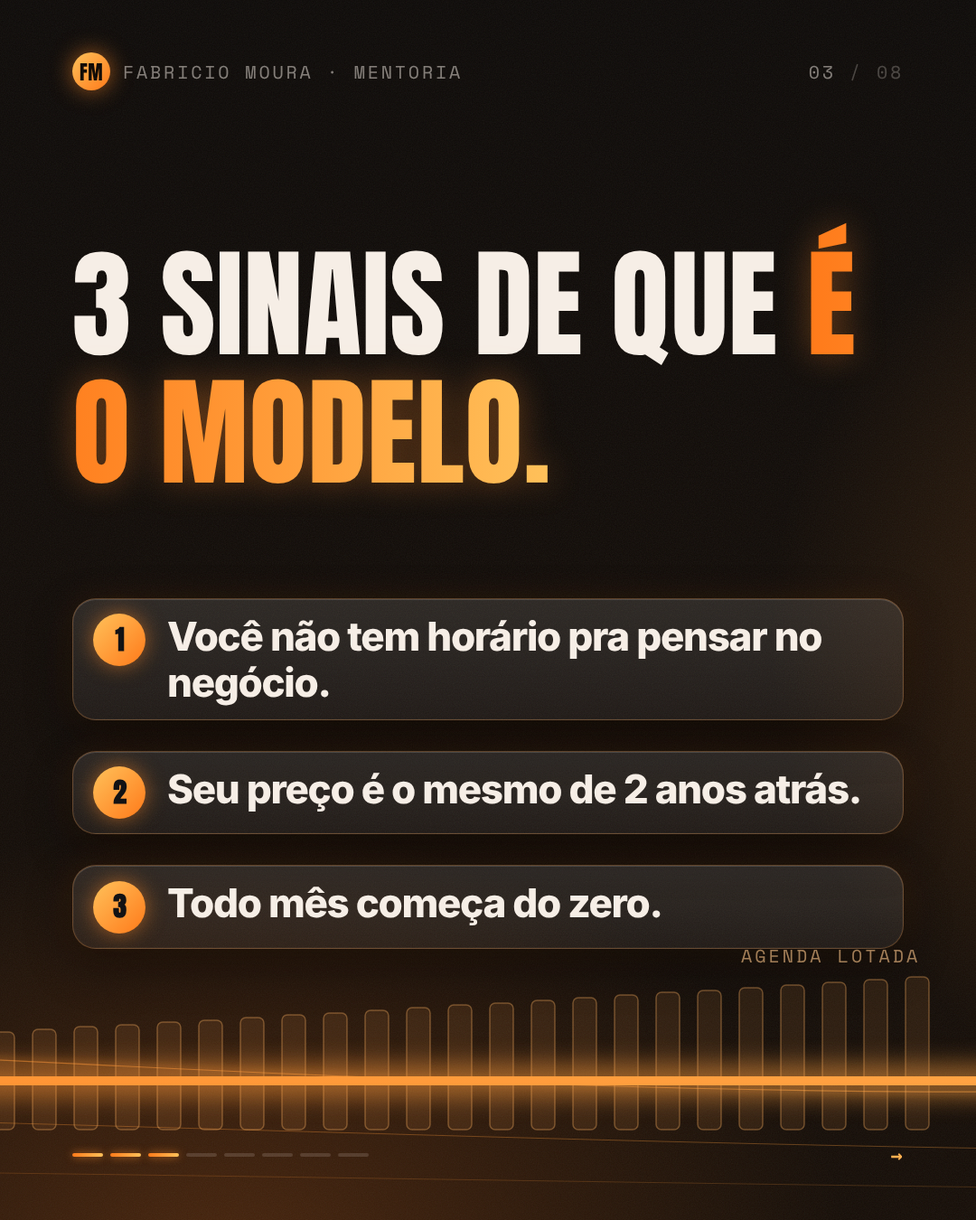
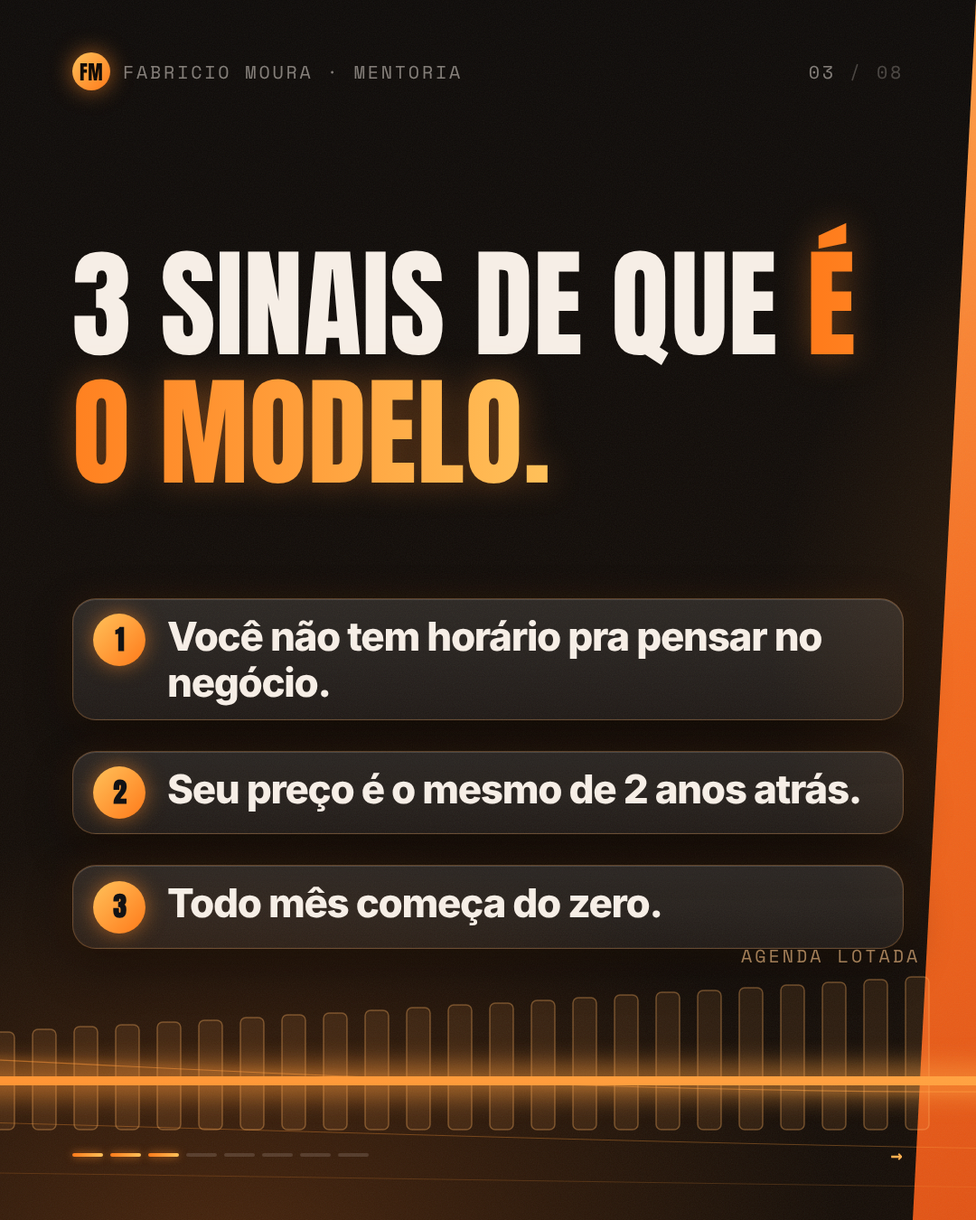
carrossel glassflow: blocos laranja e creme inclinados emendando nos slides vizinhos
Claude-Session: https://claude.ai/code/session_01RK2kDXjzsRYiZHiUi196vp

Changed region(s): [[0.9167, 0.0311, 1.0, 1.0]]

diff --git a/marketing/instagram/business/c03-agenda-cheia-glassflow/index.html b/marketing/instagram/business/c03-agenda-cheia-glassflow/index.html
@@ -143,11 +143,24 @@ svg#flow{position:absolute;left:0;top:0;pointer-events:none;z-index:4}
  linear-gradient(180deg,#0d0a08,#150d07)}
 .s,.s.red,.s.dark,.s.k-final{background:transparent!important}
 .r,.H .r{text-shadow:none!important}
+.cblock{position:absolute;top:0;height:1350px;z-index:1}
+.cblock.orange{background:radial-gradient(70% 50% at 80% 10%,rgba(255,220,160,.45),transparent 60%),linear-gradient(165deg,#FFA049 0%,#F46A1E 45%,#D9480F 100%);
+ box-shadow:0 0 120px rgba(255,138,42,.45)}
+.cblock.cream{background:radial-gradient(80% 60% at 100% 100%,rgba(255,170,90,.28),transparent 60%),linear-gradient(170deg,#FBF6EF,#EFE6DA)}
+.red .H,.red .B,.red .B b,.red .lab{color:#140c06!important}
+.red .r{background:none;-webkit-text-fill-color:#fff;color:#fff;filter:none}
+.red .chrome,.dark .chrome{color:rgba(20,12,6,.6)}
+.red .prog i,.dark .prog i{background:rgba(20,12,6,.18)} .red .prog i.on{background:#140c06;box-shadow:none}
+.dark .H,.dark .B,.dark .B b{color:#17110c!important}
+.dark .r{background:linear-gradient(90deg,#E5520F,#F28A2A);-webkit-background-clip:text;background-clip:text;color:transparent;filter:none}
+.dark .lab{color:#D9530F!important}
+.red .lab::before,.dark .lab::before{background:currentColor}
 .flowph::after{background:linear-gradient(90deg,rgba(255,138,42,.18),transparent 45%),linear-gradient(180deg,transparent 40%,rgba(13,10,8,.7))}
 .flowph{filter:sepia(.25) saturate(1.1)}
 </style></head>
 <body><div id="pano">
 <div class="flowph" style="background-image:url(../fotos/computador.jpg)"></div>
+<div class="cblock orange" style="left:3170px;width:1220px;clip-path:polygon(70px 0,100% 0,1150px 100%,0 100%)"></div><div class="cblock cream" style="left:5330px;width:1220px;clip-path:polygon(70px 0,100% 0,1150px 100%,0 100%)"></div>
 <section class="s k-cover" style="left:0px">
 <div class="photo" style="background-image:url(../fotos/computador.jpg)"></div>
 <div class="a chrome mono"><span class="brand"><b>FM</b>Fabricio Moura · Mentoria</span><span>01 <em>/ 08</em></span></div>
@@ -197,7 +210,7 @@ svg#flow{position:absolute;left:0;top:0;pointer-events:none;z-index:4}
 <div class="a low"><div class="box"><div class="lab" style="font-weight:400;opacity:.6;color:var(--paper)">Quer aplicar isso no seu negócio?</div><div class="H r" style="font-size:112px;line-height:1;margin-top:10px">Comenta MENTORIA</div></div><div class="B">Eu te chamo no direct pra uma <b>avaliação gratuita</b> do seu cenário. Ou toca no link da bio.</div></div>
 <div class="a foot mono"><span class="prog"><i class="on"></i><i class="on"></i><i class="on"></i><i class="on"></i><i class="on"></i><i class="on"></i><i class="on"></i><i class="on"></i></span><span class="go"></span></div>
 </section>
-<svg id="flow" width="8640" height="1350" viewBox="0 0 8640 1350"><defs><linearGradient id="lg" gradientUnits="userSpaceOnUse" x1="0" y1="0" x2="8640" y2="0"><stop offset="0" stop-color="#FF7A1A"/><stop offset=".5" stop-color="#FFB050"/><stop offset="1" stop-color="#FFD27A"/></linearGradient><filter id="gw2" x="-5%" y="-80%" width="110%" height="260%"><feGaussianBlur stdDeviation="14"/></filter><filter id="gl2"><feGaussianBlur stdDeviation="5"/></filter></defs><g fill="none" stroke="url(#lg)" opacity=".55"><path d="M-20 1180 C 1500 1020, 2800 1330, 4300 1150 S 7200 1000, 8660 1120" stroke-width="2" filter="url(#gl2)"/><path d="M-20 1180 C 1500 1020, 2800 1330, 4300 1150 S 7200 1000, 8660 1120" stroke-width="1.2"/><path d="M-20 1260 C 1700 1150, 3200 1350, 4700 1240 S 7400 1130, 8660 1220" stroke-width="1" opacity=".6"/><path d="M-20 1310 C 1900 1250, 3500 1360, 5000 1300 S 7600 1230, 8660 1290" stroke-width="1" opacity=".35"/></g><rect x="80" y="1225" width="26" height="25" rx="6" fill="rgba(255,170,90,.10)" stroke="rgba(255,180,100,.35)" stroke-width="1.5"/><rect x="126" y="1224" width="26" height="26" rx="6" fill="rgba(255,170,90,.10)" stroke="rgba(255,180,100,.35)" stroke-width="1.5"/><rect x="172" y="1224" width="26" height="26" rx="6" fill="rgba(255,170,90,.10)" stroke="rgba(255,180,100,.35)" stroke-width="1.5"/><rect x="218" y="1223" width="26" height="27" rx="6" fill="rgba(255,170,90,.10)" stroke="rgba(255,180,100,.35)" stroke-width="1.5"/><rect x="264" y="1222" width="26" height="28" rx="6" fill="rgba(255,170,90,.10)" stroke="rgba(255,180,100,.35)" stroke-width="1.5"/><rect x="310" y="1220" width="26" height="30" rx="6" fill="rgba(255,170,90,.10)" stroke="rgba(255,180,100,.35)" stroke-width="1.5"/><rect x="356" y="1219" width="26" height="31" rx="6" fill="rgba(255,170,90,.10)" stroke="rgba(255,180,100,.35)" stroke-width="1.5"/><rect x="402" y="1218" width="26" height="32" rx="6" fill="rgba(255,170,90,.10)" stroke="rgba(255,180,100,.35)" stroke-width="1.5"/><rect x="448" y="1217" width="26" height="33" rx="6" fill="rgba(255,170,90,.10)" stroke="rgba(255,180,100,.35)" stroke-width="1.5"/><rect x="494" y="1215" width="26" height="35" rx="6" fill="rgba(255,170,90,.10)" stroke="rgba(255,180,100,.35)" stroke-width="1.5"/><rect x="540" y="1214" width="26" height="36" rx="6" fill="rgba(255,170,90,.10)" stroke="rgba(255,180,100,.35)" stroke-width="1.5"/><rect x="586" y="1212" width="26" height="38" rx="6" fill="rgba(255,170,90,.10)" stroke="rgba(255,180,100,.35)" stroke-width="1.5"/><rect x="632" y="1211" width="26" height="39" rx="6" fill="rgba(255,170,90,.10)" stroke="rgba(255,180,100,.35)" stroke-width="1.5"/><rect x="678" y="1209" width="26" height="41" rx="6" fill="rgba(255,170,90,.10)" stroke="rgba(255,180,100,.35)" stroke-width="1.5"/><rect x="724" y="1208" width="26" height="42" rx="6" fill="rgba(255,170,90,.10)" stroke="rgba(255,180,100,.35)" stroke-width="1.5"/><rect x="770" y="1206" width="26" height="44" rx="6" fill="rgba(255,170,90,.10)" stroke="rgba(255,180,100,.35)" stroke-width="1.5"/><rect x="816" y="1204" width="26" height="46" rx="6" fill="rgba(255,170,90,.10)" stroke="rgba(255,180,100,.35)" stroke-width="1.5"/><rect x="862" y="1203" width="26" height="47" rx="6" fill="rgba(255,170,90,.10)" stroke="rgba(255,180,100,.35)" stroke-width="1.5"/><rect x="908" y="1201" width="26" height="49" rx="6" fill="rgba(255,170,90,.10)" stroke="rgba(255,180,100,.35)" stroke-width="1.5"/><rect x="954" y="1199" width="26" height="51" rx="6" fill="rgba(255,170,90,.10)" stroke="rgba(255,180,100,.35)" stroke-width="1.5"/><rect x="1000" y="1197" width="26" height="53" rx="6" fill="rgba(255,170,90,.10)" stroke="rgba(255,180,100,.35)" stroke-width="1.5"/><rect x="1046" y="1195" width="26" height="55" rx="6" fill="rgba(255,170,90,.10)" stroke="rgba(255,180,100,.35)" stroke-width="1.5"/><rect x="1092" y="1193" width="26" height="57" rx="6" fill="rgba(255,170,90,.10)" stroke="rgba(255,180,100,.35)" stroke-width="1.5"/><rect x="1138" y="1191" width="26" height="59" rx="6" fill="rgba(255,170,90,.10)" stroke="rgba(255,180,100,.35)" stroke-width="1.5"/><rect x="1184" y="1189" width="26" height="61" rx="6" fill="rgba(255,170,90,.10)" stroke="rgba(255,180,100,.35)" stroke-width="1.5"/><rect x="1230" y="1187" width="26" height="63" rx="6" fill="rgba(255,170,90,.10)" stroke="rgba(255,180,100,.35)" stroke-width="1.5"/><rect x="1276" y="1185" width="26" height="65" rx="6" fill="rgba(255,170,90,.10)" stroke="rgba(255,180,100,.35)" stroke-width="1.5"/><rect x="1322" y="1183" width="26" height="67" rx="6" fill="rgba(255,170,90,.10)" stroke="rgba(255,180,100,.35)" stroke-width="1.5"/><rect x="1368" y="1181" width="26" height="69" rx="6" fill="rgba(255,170,90,.10)" stroke="rgba(255,180,100,.35)" stroke-width="1.5"/><rect x="1414" y="1179" width="26" height="71" rx="6" fill="rgba(255,170,90,.10)" stroke="rgba(255,180,100,.35)" stroke-width="1.5"/><rect x="1460" y="1177" width="26" height="73" rx="6" fill="rgba(255,170,90,.10)" stroke="rgba(255,180,100,.35)" stroke-width="1.5"/><rect x="1506" y="1175" width="26" height="75" rx="6" fill="rgba(255,170,90,.10)" stroke="rgba(255,180,100,.35)" stroke-width="1.5"/><rect x="1552" y="1172" width="26" height="78" rx="6" fill="rgba(255,170,90,.10)" stroke="rgba(255,180,100,.35)" stroke-width="1.5"/><rect x="1598" y="1170" width="26" height="80" rx="6" fill="rgba(255,170,90,.10)" stroke="rgba(255,180,100,.35)" stroke-width="1.5"/><rect x="1644" y="1168" width="26" height="82" rx="6" fill="rgba(255,170,90,.10)" stroke="rgba(255,180,100,.35)" stroke-width="1.5"/><rect x="1690" y="1166" width="26" height="84" rx="6" fill="rgba(255,170,90,.10)" stroke="rgba(255,180,100,.35)" stroke-width="1.5"/><rect x="1736" y="1163" width="26" height="87" rx="6" fill="rgba(255,170,90,.10)" stroke="rgba(255,180,100,.35)" stroke-width="1.5"/><rect x="1782" y="1161" width="26" height="89" rx="6" fill="rgba(255,170,90,.10)" stroke="rgba(255,180,100,.35)" stroke-width="1.5"/><rect x="1828" y="1159" width="26" height="91" rx="6" fill="rgba(255,170,90,.10)" stroke="rgba(255,180,100,.35)" stroke-width="1.5"/><rect x="1874" y="1156" width="26" height="94" rx="6" fill="rgba(255,170,90,.10)" stroke="rgba(255,180,100,.35)" stroke-width="1.5"/><rect x="1920" y="1154" width="26" height="96" rx="6" fill="rgba(255,170,90,.10)" stroke="rgba(255,180,100,.35)" stroke-width="1.5"/><rect x="1966" y="1151" width="26" height="99" rx="6" fill="rgba(255,170,90,.10)" stroke="rgba(255,180,100,.35)" stroke-width="1.5"/><rect x="2012" y="1149" width="26" height="101" rx="6" fill="rgba(255,170,90,.10)" stroke="rgba(255,180,100,.35)" stroke-width="1.5"/><rect x="2058" y="1147" width="26" height="103" rx="6" fill="rgba(255,170,90,.10)" stroke="rgba(255,180,100,.35)" stroke-width="1.5"/><rect x="2104" y="1144" width="26" height="106" rx="6" fill="rgba(255,170,90,.10)" stroke="rgba(255,180,100,.35)" stroke-width="1.5"/><rect x="2150" y="1142" width="26" height="108" rx="6" fill="rgba(255,170,90,.10)" stroke="rgba(255,180,100,.35)" stroke-width="1.5"/><rect x="2196" y="1139" width="26" height="111" rx="6" fill="rgba(255,170,90,.10)" stroke="rgba(255,180,100,.35)" stroke-width="1.5"/><rect x="2242" y="1136" width="26" height="114" rx="6" fill="rgba(255,170,90,.10)" stroke="rgba(255,180,100,.35)" stroke-width="1.5"/><rect x="2288" y="1134" width="26" height="116" rx="6" fill="rgba(255,170,90,.10)" stroke="rgba(255,180,100,.35)" stroke-width="1.5"/><rect x="2334" y="1131" width="26" height="119" rx="6" fill="rgba(255,170,90,.10)" stroke="rgba(255,180,100,.35)" stroke-width="1.5"/><rect x="2380" y="1129" width="26" height="121" rx="6" fill="rgba(255,170,90,.10)" stroke="rgba(255,180,100,.35)" stroke-width="1.5"/><rect x="2426" y="1126" width="26" height="124" rx="6" fill="rgba(255,170,90,.10)" stroke="rgba(255,180,100,.35)" stroke-width="1.5"/><rect x="2472" y="1123" width="26" height="127" rx="6" fill="rgba(255,170,90,.10)" stroke="rgba(255,180,100,.35)" stroke-width="1.5"/><rect x="2518" y="1121" width="26" height="129" rx="6" fill="rgba(255,170,90,.10)" stroke="rgba(255,180,100,.35)" stroke-width="1.5"/><rect x="2564" y="1118" width="26" height="132" rx="6" fill="rgba(255,170,90,.10)" stroke="rgba(255,180,100,.35)" stroke-width="1.5"/><rect x="2610" y="1115" width="26" height="135" rx="6" fill="rgba(255,170,90,.10)" stroke="rgba(255,180,100,.35)" stroke-width="1.5"/><rect x="2656" y="1112" width="26" height="138" rx="6" fill="rgba(255,170,90,.10)" stroke="rgba(255,180,100,.35)" stroke-width="1.5"/><rect x="2702" y="1110" width="26" height="140" rx="6" fill="rgba(255,170,90,.10)" stroke="rgba(255,180,100,.35)" stroke-width="1.5"/><rect x="2748" y="1107" width="26" height="143" rx="6" fill="rgba(255,170,90,.10)" stroke="rgba(255,180,100,.35)" stroke-width="1.5"/><rect x="2794" y="1104" width="26" height="146" rx="6" fill="rgba(255,170,90,.10)" stroke="rgba(255,180,100,.35)" stroke-width="1.5"/><rect x="2840" y="1101" width="26" height="149" rx="6" fill="rgba(255,170,90,.10)" stroke="rgba(255,180,100,.35)" stroke-width="1.5"/><rect x="2886" y="1098" width="26" height="152" rx="6" fill="rgba(255,170,90,.10)" stroke="rgba(255,180,100,.35)" stroke-width="1.5"/><rect x="2932" y="1096" width="26" height="154" rx="6" fill="rgba(255,170,90,.10)" stroke="rgba(255,180,100,.35)" stroke-width="1.5"/><rect x="2978" y="1093" width="26" height="157" rx="6" fill="rgba(255,170,90,.10)" stroke="rgba(255,180,100,.35)" stroke-width="1.5"/><rect x="3024" y="1090" width="26" height="160" rx="6" fill="rgba(255,170,90,.10)" stroke="rgba(255,180,100,.35)" stroke-width="1.5"/><rect x="3070" y="1087" width="26" height="163" rx="6" fill="rgba(255,170,90,.10)" stroke="rgba(255,180,100,.35)" stroke-width="1.5"/><rect x="3116" y="1084" width="26" height="166" rx="6" fill="rgba(255,170,90,.10)" stroke="rgba(255,180,100,.35)" stroke-width="1.5"/><rect x="3162" y="1081" width="26" height="169" rx="6" fill="rgba(255,170,90,.10)" stroke="rgba(255,180,100,.35)" stroke-width="1.5"/><rect x="4410" y="1210" width="40" height="40" rx="8" fill="rgba(255,170,90,.10)" stroke="rgba(255,180,100,.35)" stroke-width="1.5"/><rect x="4600" y="1194" width="40" height="56" rx="8" fill="rgba(255,170,90,.10)" stroke="rgba(255,180,100,.35)" stroke-width="1.5"/><rect x="4790" y="1178" width="40" height="72" rx="8" fill="rgba(255,170,90,.10)" stroke="rgba(255,180,100,.35)" stroke-width="1.5"/><rect x="4980" y="1210" width="40" height="40" rx="8" fill="rgba(255,170,90,.10)" stroke="rgba(255,180,100,.35)" stroke-width="1.5"/><rect x="5170" y="1194" width="40" height="56" rx="8" fill="rgba(255,170,90,.10)" stroke="rgba(255,180,100,.35)" stroke-width="1.5"/><rect x="5360" y="1178" width="40" height="72" rx="8" fill="rgba(255,170,90,.10)" stroke="rgba(255,180,100,.35)" stroke-width="1.5"/><rect x="5550" y="1210" width="40" height="40" rx="8" fill="rgba(255,170,90,.10)" stroke="rgba(255,180,100,.35)" stroke-width="1.5"/><rect x="5740" y="1194" width="40" height="56" rx="8" fill="rgba(255,170,90,.10)" stroke="rgba(255,180,100,.35)" stroke-width="1.5"/><rect x="5930" y="1178" width="40" height="72" rx="8" fill="rgba(255,170,90,.10)" stroke="rgba(255,180,100,.35)" stroke-width="1.5"/><rect x="6120" y="1210" width="40" height="40" rx="8" fill="rgba(255,170,90,.10)" stroke="rgba(255,180,100,.35)" stroke-width="1.5"/><rect x="6310" y="1194" width="40" height="56" rx="8" fill="rgba(255,170,90,.10)" stroke="rgba(255,180,100,.35)" stroke-width="1.5"/><rect x="6500" y="1178" width="40" height="72" rx="8" fill="rgba(255,170,90,.10)" stroke="rgba(255,180,100,.35)" stroke-width="1.5"/><rect x="6690" y="1210" width="40" height="40" rx="8" fill="rgba(255,170,90,.10)" stroke="rgba(255,180,100,.35)" stroke-width="1.5"/><rect x="6880" y="1194" width="40" height="56" rx="8" fill="rgba(255,170,90,.10)" stroke="rgba(255,180,100,.35)" stroke-width="1.5"/><rect x="7070" y="1178" width="40" height="72" rx="8" fill="rgba(255,170,90,.10)" stroke="rgba(255,180,100,.35)" stroke-width="1.5"/><rect x="7260" y="1210" width="40" height="40" rx="8" fill="rgba(255,170,90,.10)" stroke="rgba(255,180,100,.35)" stroke-width="1.5"/><rect x="7450" y="1194" width="40" height="56" rx="8" fill="rgba(255,170,90,.10)" stroke="rgba(255,180,100,.35)" stroke-width="1.5"/><rect x="7640" y="1178" width="40" height="72" rx="8" fill="rgba(255,170,90,.10)" stroke="rgba(255,180,100,.35)" stroke-width="1.5"/><rect x="7830" y="1210" width="40" height="40" rx="8" fill="rgba(255,170,90,.10)" stroke="rgba(255,180,100,.35)" stroke-width="1.5"/><rect x="8020" y="1194" width="40" height="56" rx="8" fill="rgba(255,170,90,.10)" stroke="rgba(255,180,100,.35)" stroke-width="1.5"/><path d="M80,1196 L3300,1196 L4260,1110 L4720,1098 L5900,1084 L7000,1074 L7620,1080 L8460,1072" stroke="url(#lg)" stroke-width="34" fill="none" opacity=".55" filter="url(#gw2)"/><path d="M80,1196 L3300,1196 L4260,1110 L4720,1098 L5900,1084 L7000,1074 L7620,1080 L8460,1072" stroke="url(#lg)" stroke-width="10" fill="none" stroke-linejoin="round" stroke-linecap="round"/><circle cx="4260" cy="1110" r="10" fill="#FFD27A" stroke="#FF8A2A" stroke-width="4" filter="drop-shadow(0 0 10px #FF8A2A)"/><circle cx="4720" cy="1098" r="10" fill="#FFD27A" stroke="#FF8A2A" stroke-width="4" filter="drop-shadow(0 0 10px #FF8A2A)"/><circle cx="5900" cy="1084" r="10" fill="#FFD27A" stroke="#FF8A2A" stroke-width="4" filter="drop-shadow(0 0 10px #FF8A2A)"/><circle cx="7000" cy="1074" r="10" fill="#FFD27A" stroke="#FF8A2A" stroke-width="4" filter="drop-shadow(0 0 10px #FF8A2A)"/><circle cx="7620" cy="1080" r="10" fill="#FFD27A" stroke="#FF8A2A" stroke-width="4" filter="drop-shadow(0 0 10px #FF8A2A)"/><path d="M8454,1044 L8500,1072 L8454,1100 Z" fill="#FFC15A" transform="rotate(-2 8460 1072)"/><text x="8130" y="1042" fill="#FFC15A" font-family="Space Mono" font-size="20" letter-spacing="3" font-weight="700">SUA CONSULTORIA</text><text x="1160" y="1170" fill="#FFB050" font-family="Space Mono" font-size="20" letter-spacing="3" font-weight="700">FATURAMENTO</text><text x="1160" y="1250" dy="-0" fill="rgba(244,239,232,.45)" font-family="Space Mono" font-size="20" letter-spacing="3"></text><text x="2980" y="1065" fill="rgba(255,200,140,.6)" font-family="Space Mono" font-size="20" letter-spacing="3">AGENDA LOTADA</text><text x="4410" y="1160" fill="rgba(255,200,140,.6)" font-family="Space Mono" font-size="20" letter-spacing="3">MENOS GENTE, MAIS MARGEM</text></svg>
+<svg id="flow" width="8640" height="1350" viewBox="0 0 8640 1350"><defs><clipPath id="cr"><rect x="3240" y="0" width="1080" height="1350"/></clipPath><clipPath id="notcr"><rect x="0" y="0" width="3240" height="1350"/><rect x="4320" y="0" width="8640" height="1350"/></clipPath><linearGradient id="lg" gradientUnits="userSpaceOnUse" x1="0" y1="0" x2="8640" y2="0"><stop offset="0" stop-color="#FF7A1A"/><stop offset=".5" stop-color="#FFB050"/><stop offset="1" stop-color="#FFD27A"/></linearGradient><filter id="gw2" x="-5%" y="-80%" width="110%" height="260%"><feGaussianBlur stdDeviation="14"/></filter><filter id="gl2"><feGaussianBlur stdDeviation="5"/></filter></defs><g fill="none" stroke="url(#lg)" opacity=".55"><path d="M-20 1180 C 1500 1020, 2800 1330, 4300 1150 S 7200 1000, 8660 1120" stroke-width="2" filter="url(#gl2)"/><path d="M-20 1180 C 1500 1020, 2800 1330, 4300 1150 S 7200 1000, 8660 1120" stroke-width="1.2"/><path d="M-20 1260 C 1700 1150, 3200 1350, 4700 1240 S 7400 1130, 8660 1220" stroke-width="1" opacity=".6"/><path d="M-20 1310 C 1900 1250, 3500 1360, 5000 1300 S 7600 1230, 8660 1290" stroke-width="1" opacity=".35"/></g><rect x="80" y="1225" width="26" height="25" rx="6" fill="rgba(255,170,90,.10)" stroke="rgba(255,180,100,.35)" stroke-width="1.5"/><rect x="126" y="1224" width="26" height="26" rx="6" fill="rgba(255,170,90,.10)" stroke="rgba(255,180,100,.35)" stroke-width="1.5"/><rect x="172" y="1224" width="26" height="26" rx="6" fill="rgba(255,170,90,.10)" stroke="rgba(255,180,100,.35)" stroke-width="1.5"/><rect x="218" y="1223" width="26" height="27" rx="6" fill="rgba(255,170,90,.10)" stroke="rgba(255,180,100,.35)" stroke-width="1.5"/><rect x="264" y="1222" width="26" height="28" rx="6" fill="rgba(255,170,90,.10)" stroke="rgba(255,180,100,.35)" stroke-width="1.5"/><rect x="310" y="1220" width="26" height="30" rx="6" fill="rgba(255,170,90,.10)" stroke="rgba(255,180,100,.35)" stroke-width="1.5"/><rect x="356" y="1219" width="26" height="31" rx="6" fill="rgba(255,170,90,.10)" stroke="rgba(255,180,100,.35)" stroke-width="1.5"/><rect x="402" y="1218" width="26" height="32" rx="6" fill="rgba(255,170,90,.10)" stroke="rgba(255,180,100,.35)" stroke-width="1.5"/><rect x="448" y="1217" width="26" height="33" rx="6" fill="rgba(255,170,90,.10)" stroke="rgba(255,180,100,.35)" stroke-width="1.5"/><rect x="494" y="1215" width="26" height="35" rx="6" fill="rgba(255,170,90,.10)" stroke="rgba(255,180,100,.35)" stroke-width="1.5"/><rect x="540" y="1214" width="26" height="36" rx="6" fill="rgba(255,170,90,.10)" stroke="rgba(255,180,100,.35)" stroke-width="1.5"/><rect x="586" y="1212" width="26" height="38" rx="6" fill="rgba(255,170,90,.10)" stroke="rgba(255,180,100,.35)" stroke-width="1.5"/><rect x="632" y="1211" width="26" height="39" rx="6" fill="rgba(255,170,90,.10)" stroke="rgba(255,180,100,.35)" stroke-width="1.5"/><rect x="678" y="1209" width="26" height="41" rx="6" fill="rgba(255,170,90,.10)" stroke="rgba(255,180,100,.35)" stroke-width="1.5"/><rect x="724" y="1208" width="26" height="42" rx="6" fill="rgba(255,170,90,.10)" stroke="rgba(255,180,100,.35)" stroke-width="1.5"/><rect x="770" y="1206" width="26" height="44" rx="6" fill="rgba(255,170,90,.10)" stroke="rgba(255,180,100,.35)" stroke-width="1.5"/><rect x="816" y="1204" width="26" height="46" rx="6" fill="rgba(255,170,90,.10)" stroke="rgba(255,180,100,.35)" stroke-width="1.5"/><rect x="862" y="1203" width="26" height="47" rx="6" fill="rgba(255,170,90,.10)" stroke="rgba(255,180,100,.35)" stroke-width="1.5"/><rect x="908" y="1201" width="26" height="49" rx="6" fill="rgba(255,170,90,.10)" stroke="rgba(255,180,100,.35)" stroke-width="1.5"/><rect x="954" y="1199" width="26" height="51" rx="6" fill="rgba(255,170,90,.10)" stroke="rgba(255,180,100,.35)" stroke-width="1.5"/><rect x="1000" y="1197" width="26" height="53" rx="6" fill="rgba(255,170,90,.10)" stroke="rgba(255,180,100,.35)" stroke-width="1.5"/><rect x="1046" y="1195" width="26" height="55" rx="6" fill="rgba(255,170,90,.10)" stroke="rgba(255,180,100,.35)" stroke-width="1.5"/><rect x="1092" y="1193" width="26" height="57" rx="6" fill="rgba(255,170,90,.10)" stroke="rgba(255,180,100,.35)" stroke-width="1.5"/><rect x="1138" y="1191" width="26" height="59" rx="6" fill="rgba(255,170,90,.10)" stroke="rgba(255,180,100,.35)" stroke-width="1.5"/><rect x="1184" y="1189" width="26" height="61" rx="6" fill="rgba(255,170,90,.10)" stroke="rgba(255,180,100,.35)" stroke-width="1.5"/><rect x="1230" y="1187" width="26" height="63" rx="6" fill="rgba(255,170,90,.10)" stroke="rgba(255,180,100,.35)" stroke-width="1.5"/><rect x="1276" y="1185" width="26" height="65" rx="6" fill="rgba(255,170,90,.10)" stroke="rgba(255,180,100,.35)" stroke-width="1.5"/><rect x="1322" y="1183" width="26" height="67" rx="6" fill="rgba(255,170,90,.10)" stroke="rgba(255,180,100,.35)" stroke-width="1.5"/><rect x="1368" y="1181" width="26" height="69" rx="6" fill="rgba(255,170,90,.10)" stroke="rgba(255,180,100,.35)" stroke-width="1.5"/><rect x="1414" y="1179" width="26" height="71" rx="6" fill="rgba(255,170,90,.10)" stroke="rgba(255,180,100,.35)" stroke-width="1.5"/><rect x="1460" y="1177" width="26" height="73" rx="6" fill="rgba(255,170,90,.10)" stroke="rgba(255,180,100,.35)" stroke-width="1.5"/><rect x="1506" y="1175" width="26" height="75" rx="6" fill="rgba(255,170,90,.10)" stroke="rgba(255,180,100,.35)" stroke-width="1.5"/><rect x="1552" y="1172" width="26" height="78" rx="6" fill="rgba(255,170,90,.10)" stroke="rgba(255,180,100,.35)" stroke-width="1.5"/><rect x="1598" y="1170" width="26" height="80" rx="6" fill="rgba(255,170,90,.10)" stroke="rgba(255,180,100,.35)" stroke-width="1.5"/><rect x="1644" y="1168" width="26" height="82" rx="6" fill="rgba(255,170,90,.10)" stroke="rgba(255,180,100,.35)" stroke-width="1.5"/><rect x="1690" y="1166" width="26" height="84" rx="6" fill="rgba(255,170,90,.10)" stroke="rgba(255,180,100,.35)" stroke-width="1.5"/><rect x="1736" y="1163" width="26" height="87" rx="6" fill="rgba(255,170,90,.10)" stroke="rgba(255,180,100,.35)" stroke-width="1.5"/><rect x="1782" y="1161" width="26" height="89" rx="6" fill="rgba(255,170,90,.10)" stroke="rgba(255,180,100,.35)" stroke-width="1.5"/><rect x="1828" y="1159" width="26" height="91" rx="6" fill="rgba(255,170,90,.10)" stroke="rgba(255,180,100,.35)" stroke-width="1.5"/><rect x="1874" y="1156" width="26" height="94" rx="6" fill="rgba(255,170,90,.10)" stroke="rgba(255,180,100,.35)" stroke-width="1.5"/><rect x="1920" y="1154" width="26" height="96" rx="6" fill="rgba(255,170,90,.10)" stroke="rgba(255,180,100,.35)" stroke-width="1.5"/><rect x="1966" y="1151" width="26" height="99" rx="6" fill="rgba(255,170,90,.10)" stroke="rgba(255,180,100,.35)" stroke-width="1.5"/><rect x="2012" y="1149" width="26" height="101" rx="6" fill="rgba(255,170,90,.10)" stroke="rgba(255,180,100,.35)" stroke-width="1.5"/><rect x="2058" y="1147" width="26" height="103" rx="6" fill="rgba(255,170,90,.10)" stroke="rgba(255,180,100,.35)" stroke-width="1.5"/><rect x="2104" y="1144" width="26" height="106" rx="6" fill="rgba(255,170,90,.10)" stroke="rgba(255,180,100,.35)" stroke-width="1.5"/><rect x="2150" y="1142" width="26" height="108" rx="6" fill="rgba(255,170,90,.10)" stroke="rgba(255,180,100,.35)" stroke-width="1.5"/><rect x="2196" y="1139" width="26" height="111" rx="6" fill="rgba(255,170,90,.10)" stroke="rgba(255,180,100,.35)" stroke-width="1.5"/><rect x="2242" y="1136" width="26" height="114" rx="6" fill="rgba(255,170,90,.10)" stroke="rgba(255,180,100,.35)" stroke-width="1.5"/><rect x="2288" y="1134" width="26" height="116" rx="6" fill="rgba(255,170,90,.10)" stroke="rgba(255,180,100,.35)" stroke-width="1.5"/><rect x="2334" y="1131" width="26" height="119" rx="6" fill="rgba(255,170,90,.10)" stroke="rgba(255,180,100,.35)" stroke-width="1.5"/><rect x="2380" y="1129" width="26" height="121" rx="6" fill="rgba(255,170,90,.10)" stroke="rgba(255,180,100,.35)" stroke-width="1.5"/><rect x="2426" y="1126" width="26" height="124" rx="6" fill="rgba(255,170,90,.10)" stroke="rgba(255,180,100,.35)" stroke-width="1.5"/><rect x="2472" y="1123" width="26" height="127" rx="6" fill="rgba(255,170,90,.10)" stroke="rgba(255,180,100,.35)" stroke-width="1.5"/><rect x="2518" y="1121" width="26" height="129" rx="6" fill="rgba(255,170,90,.10)" stroke="rgba(255,180,100,.35)" stroke-width="1.5"/><rect x="2564" y="1118" width="26" height="132" rx="6" fill="rgba(255,170,90,.10)" stroke="rgba(255,180,100,.35)" stroke-width="1.5"/><rect x="2610" y="1115" width="26" height="135" rx="6" fill="rgba(255,170,90,.10)" stroke="rgba(255,180,100,.35)" stroke-width="1.5"/><rect x="2656" y="1112" width="26" height="138" rx="6" fill="rgba(255,170,90,.10)" stroke="rgba(255,180,100,.35)" stroke-width="1.5"/><rect x="2702" y="1110" width="26" height="140" rx="6" fill="rgba(255,170,90,.10)" stroke="rgba(255,180,100,.35)" stroke-width="1.5"/><rect x="2748" y="1107" width="26" height="143" rx="6" fill="rgba(255,170,90,.10)" stroke="rgba(255,180,100,.35)" stroke-width="1.5"/><rect x="2794" y="1104" width="26" height="146" rx="6" fill="rgba(255,170,90,.10)" stroke="rgba(255,180,100,.35)" stroke-width="1.5"/><rect x="2840" y="1101" width="26" height="149" rx="6" fill="rgba(255,170,90,.10)" stroke="rgba(255,180,100,.35)" stroke-width="1.5"/><rect x="2886" y="1098" width="26" height="152" rx="6" fill="rgba(255,170,90,.10)" stroke="rgba(255,180,100,.35)" stroke-width="1.5"/><rect x="2932" y="1096" width="26" height="154" rx="6" fill="rgba(255,170,90,.10)" stroke="rgba(255,180,100,.35)" stroke-width="1.5"/><rect x="2978" y="1093" width="26" height="157" rx="6" fill="rgba(255,170,90,.10)" stroke="rgba(255,180,100,.35)" stroke-width="1.5"/><rect x="3024" y="1090" width="26" height="160" rx="6" fill="rgba(255,170,90,.10)" stroke="rgba(255,180,100,.35)" stroke-width="1.5"/><rect x="3070" y="1087" width="26" height="163" rx="6" fill="rgba(255,170,90,.10)" stroke="rgba(255,180,100,.35)" stroke-width="1.5"/><rect x="3116" y="1084" width="26" height="166" rx="6" fill="rgba(255,170,90,.10)" stroke="rgba(255,180,100,.35)" stroke-width="1.5"/><rect x="3162" y="1081" width="26" height="169" rx="6" fill="rgba(255,170,90,.10)" stroke="rgba(255,180,100,.35)" stroke-width="1.5"/><rect x="4410" y="1210" width="40" height="40" rx="8" fill="rgba(255,170,90,.10)" stroke="rgba(255,180,100,.35)" stroke-width="1.5"/><rect x="4600" y="1194" width="40" height="56" rx="8" fill="rgba(255,170,90,.10)" stroke="rgba(255,180,100,.35)" stroke-width="1.5"/><rect x="4790" y="1178" width="40" height="72" rx="8" fill="rgba(255,170,90,.10)" stroke="rgba(255,180,100,.35)" stroke-width="1.5"/><rect x="4980" y="1210" width="40" height="40" rx="8" fill="rgba(255,170,90,.10)" stroke="rgba(255,180,100,.35)" stroke-width="1.5"/><rect x="5170" y="1194" width="40" height="56" rx="8" fill="rgba(255,170,90,.10)" stroke="rgba(255,180,100,.35)" stroke-width="1.5"/><rect x="5360" y="1178" width="40" height="72" rx="8" fill="rgba(255,170,90,.10)" stroke="rgba(255,180,100,.35)" stroke-width="1.5"/><rect x="5550" y="1210" width="40" height="40" rx="8" fill="rgba(217,72,15,.10)" stroke="rgba(217,72,15,.35)" stroke-width="1.5"/><rect x="5740" y="1194" width="40" height="56" rx="8" fill="rgba(217,72,15,.10)" stroke="rgba(217,72,15,.35)" stroke-width="1.5"/><rect x="5930" y="1178" width="40" height="72" rx="8" fill="rgba(217,72,15,.10)" stroke="rgba(217,72,15,.35)" stroke-width="1.5"/><rect x="6120" y="1210" width="40" height="40" rx="8" fill="rgba(217,72,15,.10)" stroke="rgba(217,72,15,.35)" stroke-width="1.5"/><rect x="6310" y="1194" width="40" height="56" rx="8" fill="rgba(217,72,15,.10)" stroke="rgba(217,72,15,.35)" stroke-width="1.5"/><rect x="6500" y="1178" width="40" height="72" rx="8" fill="rgba(255,170,90,.10)" stroke="rgba(255,180,100,.35)" stroke-width="1.5"/><rect x="6690" y="1210" width="40" height="40" rx="8" fill="rgba(255,170,90,.10)" stroke="rgba(255,180,100,.35)" stroke-width="1.5"/><rect x="6880" y="1194" width="40" height="56" rx="8" fill="rgba(255,170,90,.10)" stroke="rgba(255,180,100,.35)" stroke-width="1.5"/><rect x="7070" y="1178" width="40" height="72" rx="8" fill="rgba(255,170,90,.10)" stroke="rgba(255,180,100,.35)" stroke-width="1.5"/><rect x="7260" y="1210" width="40" height="40" rx="8" fill="rgba(255,170,90,.10)" stroke="rgba(255,180,100,.35)" stroke-width="1.5"/><rect x="7450" y="1194" width="40" height="56" rx="8" fill="rgba(255,170,90,.10)" stroke="rgba(255,180,100,.35)" stroke-width="1.5"/><rect x="7640" y="1178" width="40" height="72" rx="8" fill="rgba(255,170,90,.10)" stroke="rgba(255,180,100,.35)" stroke-width="1.5"/><rect x="7830" y="1210" width="40" height="40" rx="8" fill="rgba(255,170,90,.10)" stroke="rgba(255,180,100,.35)" stroke-width="1.5"/><rect x="8020" y="1194" width="40" height="56" rx="8" fill="rgba(255,170,90,.10)" stroke="rgba(255,180,100,.35)" stroke-width="1.5"/><g clip-path="url(#notcr)"><path d="M80,1196 L3300,1196 L4260,1110 L4720,1098 L5900,1084 L7000,1074 L7620,1080 L8460,1072" stroke="url(#lg)" stroke-width="34" fill="none" opacity=".55" filter="url(#gw2)"/><path d="M80,1196 L3300,1196 L4260,1110 L4720,1098 L5900,1084 L7000,1074 L7620,1080 L8460,1072" stroke="url(#lg)" stroke-width="10" fill="none" stroke-linejoin="round" stroke-linecap="round"/></g><g clip-path="url(#cr)"><path d="M80,1196 L3300,1196 L4260,1110 L4720,1098 L5900,1084 L7000,1074 L7620,1080 L8460,1072" stroke="#140c06" stroke-width="10" fill="none" stroke-linejoin="round"/></g><circle cx="4260" cy="1110" r="10" fill="#FFD27A" stroke="#FF8A2A" stroke-width="4" filter="drop-shadow(0 0 10px #FF8A2A)"/><circle cx="4720" cy="1098" r="10" fill="#FFD27A" stroke="#FF8A2A" stroke-width="4" filter="drop-shadow(0 0 10px #FF8A2A)"/><circle cx="5900" cy="1084" r="10" fill="#FFD27A" stroke="#FF8A2A" stroke-width="4" filter="drop-shadow(0 0 10px #FF8A2A)"/><circle cx="7000" cy="1074" r="10" fill="#FFD27A" stroke="#FF8A2A" stroke-width="4" filter="drop-shadow(0 0 10px #FF8A2A)"/><circle cx="7620" cy="1080" r="10" fill="#FFD27A" stroke="#FF8A2A" stroke-width="4" filter="drop-shadow(0 0 10px #FF8A2A)"/><path d="M8454,1044 L8500,1072 L8454,1100 Z" fill="#FFC15A" transform="rotate(-2 8460 1072)"/><text x="8130" y="1042" fill="#FFC15A" font-family="Space Mono" font-size="20" letter-spacing="3" font-weight="700">SUA CONSULTORIA</text><text x="1160" y="1170" fill="#FFB050" font-family="Space Mono" font-size="20" letter-spacing="3" font-weight="700">FATURAMENTO</text><text x="1160" y="1250" dy="-0" fill="rgba(244,239,232,.45)" font-family="Space Mono" font-size="20" letter-spacing="3"></text><text x="2980" y="1065" fill="rgba(255,200,140,.6)" font-family="Space Mono" font-size="20" letter-spacing="3">AGENDA LOTADA</text><text x="4410" y="1160" fill="rgba(255,200,140,.6)" font-family="Space Mono" font-size="20" letter-spacing="3">MENOS GENTE, MAIS MARGEM</text></svg>
 
 </div>
 <script>

diff --git a/marketing/instagram/business/gen.py b/marketing/instagram/business/gen.py
@@ -217,6 +217,18 @@ GF_CSS = """
  linear-gradient(180deg,#0d0a08,#150d07)}
 .s,.s.red,.s.dark,.s.k-final{background:transparent!important}
 .r,.H .r{text-shadow:none!important}
+.cblock{position:absolute;top:0;height:1350px;z-index:1}
+.cblock.orange{background:radial-gradient(70% 50% at 80% 10%,rgba(255,220,160,.45),transparent 60%),linear-gradient(165deg,#FFA049 0%,#F46A1E 45%,#D9480F 100%);
+ box-shadow:0 0 120px rgba(255,138,42,.45)}
+.cblock.cream{background:radial-gradient(80% 60% at 100% 100%,rgba(255,170,90,.28),transparent 60%),linear-gradient(170deg,#FBF6EF,#EFE6DA)}
+.red .H,.red .B,.red .B b,.red .lab{color:#140c06!important}
+.red .r{background:none;-webkit-text-fill-color:#fff;color:#fff;filter:none}
+.red .chrome,.dark .chrome{color:rgba(20,12,6,.6)}
+.red .prog i,.dark .prog i{background:rgba(20,12,6,.18)} .red .prog i.on{background:#140c06;box-shadow:none}
+.dark .H,.dark .B,.dark .B b{color:#17110c!important}
+.dark .r{background:linear-gradient(90deg,#E5520F,#F28A2A);-webkit-background-clip:text;background-clip:text;color:transparent;filter:none}
+.dark .lab{color:#D9530F!important}
+.red .lab::before,.dark .lab::before{background:currentColor}
 .flowph::after{background:linear-gradient(90deg,rgba(255,138,42,.18),transparent 45%),linear-gradient(180deg,transparent 40%,rgba(13,10,8,.7))}
 .flowph{filter:sepia(.25) saturate(1.1)}
 """
@@ -261,7 +273,7 @@ def flow_overlay(slides):
     dots = "".join(f'<circle cx="{a}" cy="{b}" r="9" fill="#fff" stroke="#F2581F" stroke-width="5"/>' for a, b in pts[2:-1])
     if GLASS:
         parts = [p.replace('fill="rgba(244,239,232,.14)"', 'fill="rgba(255,170,90,.10)" stroke="rgba(255,180,100,.35)" stroke-width="1.5"')
-                  .replace('fill="rgba(18,18,20,.16)"', 'fill="rgba(255,170,90,.10)" stroke="rgba(255,180,100,.35)" stroke-width="1.5"') for p in parts]
+                  .replace('fill="rgba(18,18,20,.16)"', 'fill="rgba(217,72,15,.10)" stroke="rgba(217,72,15,.35)" stroke-width="1.5"') for p in parts]
         grad = f'<linearGradient id="lg" gradientUnits="userSpaceOnUse" x1="0" y1="0" x2="{8*W}" y2="0"><stop offset="0" stop-color="#FF7A1A"/><stop offset=".5" stop-color="#FFB050"/><stop offset="1" stop-color="#FFD27A"/></linearGradient>'
         glow2 = '<filter id="gw2" x="-5%" y="-80%" width="110%" height="260%"><feGaussianBlur stdDeviation="14"/></filter>'
         streaks = (f'<g fill="none" stroke="url(#lg)" opacity=".55">'
@@ -269,12 +281,13 @@ def flow_overlay(slides):
                    f'<path d="M-20 1180 C 1500 1020, 2800 1330, 4300 1150 S 7200 1000, 8660 1120" stroke-width="1.2"/>'
                    f'<path d="M-20 1260 C 1700 1150, 3200 1350, 4700 1240 S 7400 1130, 8660 1220" stroke-width="1" opacity=".6"/>'
                    f'<path d="M-20 1310 C 1900 1250, 3500 1360, 5000 1300 S 7600 1230, 8660 1290" stroke-width="1" opacity=".35"/></g>')
-        line = (f'<path d="{d}" stroke="url(#lg)" stroke-width="34" fill="none" opacity=".55" filter="url(#gw2)"/>'
-                f'<path d="{d}" stroke="url(#lg)" stroke-width="10" fill="none" stroke-linejoin="round" stroke-linecap="round"/>')
+        line = (f'<g clip-path="url(#notcr)"><path d="{d}" stroke="url(#lg)" stroke-width="34" fill="none" opacity=".55" filter="url(#gw2)"/>'
+                f'<path d="{d}" stroke="url(#lg)" stroke-width="10" fill="none" stroke-linejoin="round" stroke-linecap="round"/></g>'
+                f'<g clip-path="url(#cr)"><path d="{d}" stroke="#140c06" stroke-width="10" fill="none" stroke-linejoin="round"/></g>')
         dots = "".join(f'<circle cx="{a}" cy="{b}" r="10" fill="#FFD27A" stroke="#FF8A2A" stroke-width="4" filter="drop-shadow(0 0 10px #FF8A2A)"/>' for a, b in pts[2:-1])
         arrow = arrow.replace('fill="#F2581F"', 'fill="#FFC15A"')
         labels = labels.replace('fill="#F2581F"', 'fill="#FFB050"').replace('fill="rgba(244,239,232,.5)"', 'fill="rgba(255,200,140,.6)"')
-        defs = f'{grad}{glow2}<filter id="gl2"><feGaussianBlur stdDeviation="5"/></filter>'
+        defs = f'{clip}{grad}{glow2}<filter id="gl2"><feGaussianBlur stdDeviation="5"/></filter>'
         return f'<svg id="flow" width="{8*W}" height="1350" viewBox="0 0 {8*W} 1350"><defs>{defs}</defs>{streaks}{"".join(parts)}{line}{dots}{arrow}{labels}</svg>'
     return f'<svg id="flow" width="{8*W}" height="1350" viewBox="0 0 {8*W} 1350"><defs>{clip}{glow}</defs>{"".join(parts)}{line}{dots}{arrow}{labels}</svg>'
 
@@ -335,6 +348,18 @@ def thread(red_idx):
 </svg>"""
 
 
+def cblocks(slides):
+    W, b = 1080, 70
+    out = []
+    for i, s in enumerate(slides):
+        if s["k"] in ("red", "dark"):
+            cls = "orange" if s["k"] == "red" else "cream"
+            # paralelogramo: invade o slide anterior embaixo e o seguinte em cima
+            out.append(f'<div class="cblock {cls}" style="left:{i*W-b}px;width:{W+2*b}px;'
+                       f'clip-path:polygon({b}px 0,100% 0,{W+b}px 100%,0 100%)"></div>')
+    return "".join(out)
+
+
 def flowph(slides):
     ph = slides[0].get("photo")
     return f'<div class="flowph" style="background-image:url(../fotos/{ph})"></div>' if ph else ""
@@ -350,6 +375,7 @@ def build(slug, slides):
 <style>{CSS}{DARK_CSS if DARK else ""}{GLASS_CSS if GLASS else ""}{FLOW_CSS if FLOW else ""}{GF_CSS if GLASS and FLOW else ""}</style></head>
 <body><div id="pano">
 {flowph(slides) if FLOW else ""}
+{cblocks(slides) if GLASS and FLOW else ""}
 {body}
 {flow_overlay(slides) if FLOW else ""}
 {"" if DARK else thread(red_idx)}
